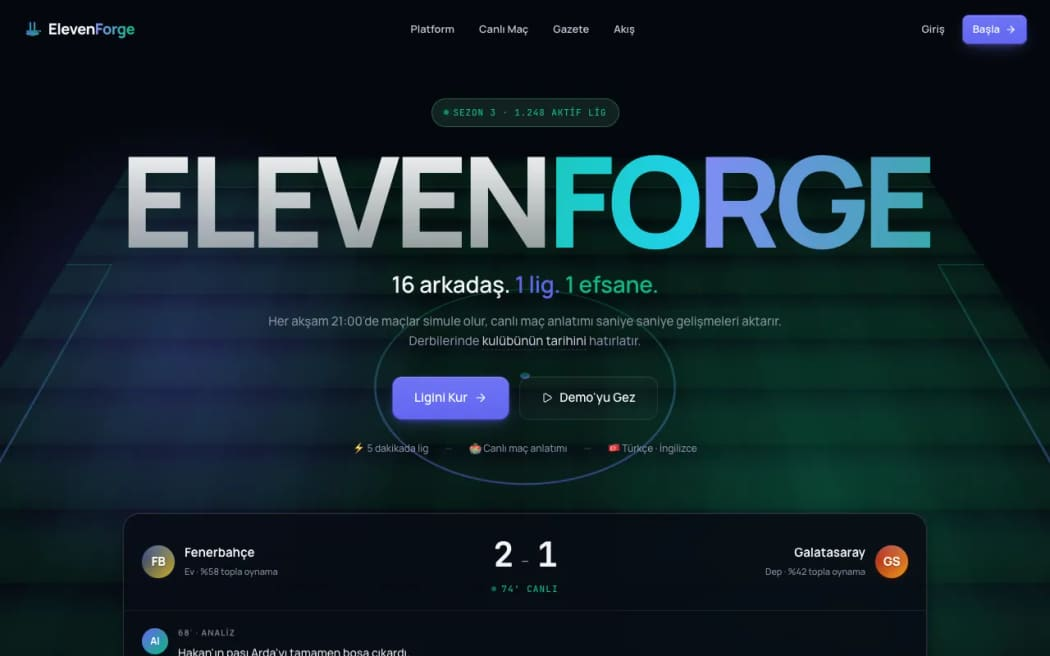
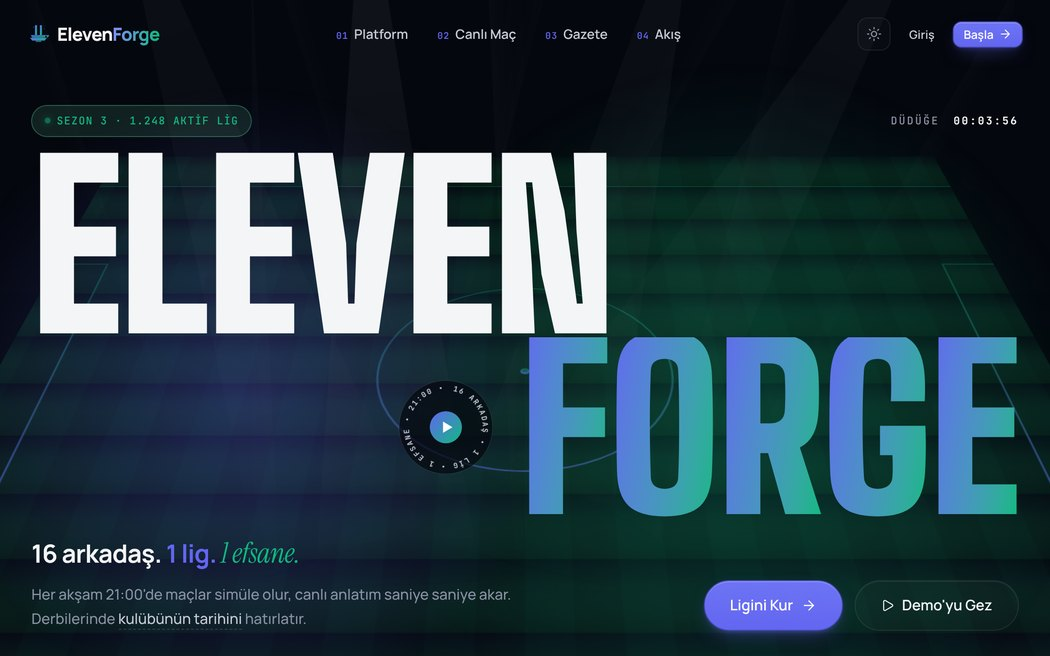
ElevenForge yeni Floodlight tasarımıyla: tam ekran görüntüsü seti, OG görseli ve indigo-zümrüt vurgu
Landing hero, uygulama ana ekranı ve telefon hero'su; iki temalı,
2160×1350 / 780×1688. Proje metnine yeni arayüzün anlatımı ve
Framer Motion etiketi eklendi.

Claude-Session: https://claude.ai/code/session_01ViCHmV2TA7TbPh5v2QZ2Vx

diff --git a/lib/content/project-shots.ts b/lib/content/project-shots.ts
@@ -6,12 +6,11 @@ import { projectShot, type ShotView } from '@/lib/project-shot'
  * da silinirse burası da değişir.
  *
  * - Tam set (desktop + desktop-2 + mobile, 2160×1350 / 780×1688): yeni
- *   çekimler (digynotes 9 Ekim 2026'da yeniden tasarımla eklendi).
+ *   çekimler. digynotes, derinay ("Atölye Sahnesi") ve elevenforge
+ *   ("Floodlight") 9 Ekim 2026'da yeniden tasarımla tam sete geçti.
  *   karalama ve dungeon-mates yalnız KOYU temalı: iki dosya da
  *   koyu, o yüzden `themed: false` (tek görsel, ikisini indirmeye gerek yok).
  * - Yalnız desktop, 1280×800: eski görselin kopyası; iki dosya aynı.
- * - elevenforge: eski desktop + yeni mobile (780×1688), tek temalı.
- *   derinay 9 Ekim 2026'da "Atölye Sahnesi" revizyonuyla tam sete geçti.
  * - dev-starter: ekran görüntüsü yok, README afişi (1280×360, iki temalı SVG).
  *   Afişteki başlık gradyanla DOLDURULMAZ: WebKit `<img>` içindeki SVG'de
  *   gradyanlı metni düşük çözünürlükte basıp büyütüyor ve iPhone'da yalnız
@@ -43,11 +42,6 @@ const FULL = { desktop: { width: 2160, height: 1350 }, 'desktop-2': { width: 216
 const LEGACY = { desktop: { width: 1280, height: 800 } } as const
 const ALL_VIEWS = ['desktop', 'desktop-2', 'mobile'] as const
 const DESKTOP_ONLY = ['desktop'] as const
-/* Eski masaüstü çekimi + yeni telefon çekimi (4 Ekim 2026): ana sayfanın
-   Öne Çıkan Projeler panelinde telefon ekranı olmayan iki proje kalıyordu.
-   Canlı siteden 390×844, 2x; ölçü tam setin telefonuyla aynı. */
-const LEGACY_WITH_MOBILE = { desktop: LEGACY.desktop, mobile: FULL.mobile } as const
-const DESKTOP_AND_MOBILE = ['desktop', 'mobile'] as const
 
 export const PROJECT_SHOTS = {
   'acilis-zili': { views: ALL_VIEWS, themed: true, size: FULL },
@@ -58,7 +52,6 @@ export const PROJECT_SHOTS = {
   karalama: { views: ALL_VIEWS, themed: false, size: FULL, darkInk: true },
   'dungeon-mates': { views: ALL_VIEWS, themed: false, size: FULL, darkInk: true },
   harfiyen: { views: DESKTOP_ONLY, themed: false, size: LEGACY, darkInk: true },
-  elevenforge: { views: DESKTOP_AND_MOBILE, themed: false, size: LEGACY_WITH_MOBILE, darkInk: true },
   /* "Atölye Sahnesi" görsel revizyonu sonrası tam set (9 Ekim 2026): landing
      kahramanı, vitrindeki panel kesiti ve telefon kahramanı; iki temalı.
      desktop-2 iki temada da koyu: vitrin landing'in "gece adası", tema
@@ -69,6 +62,9 @@ export const PROJECT_SHOTS = {
   /* Yeniden tasarım sonrası tam set (9 Ekim 2026): landing hero, notlar
      sayfası ve telefon hero'su; iki temalı. */
   digynotes: { views: ALL_VIEWS, themed: true, size: FULL },
+  /* "Floodlight" görsel revizyonu sonrası tam set (9 Ekim 2026): landing
+     hero, uygulama ana ekranı ve telefon hero'su; iki temalı. */
+  elevenforge: { views: ALL_VIEWS, themed: true, size: FULL },
 } as const satisfies Record<string, ShotSet>
 
 export type ShotSlug = keyof typeof PROJECT_SHOTS

diff --git a/lib/content/projects.ts b/lib/content/projects.ts
@@ -93,13 +93,15 @@ export const projects: Project[] = [
     description:
       '16 arkadaşın aynı ligde yarıştığı Türkçe futbol menajerlik oyunu. Davet koduyla katılıyorsun, boş kalan yerleri bot dolduruyor, kadronu ve taktiğini kuruyorsun; maçlar ligi kuran kişinin seçtiği saatte simüle ediliyor ve canlı anlatımla izleniyor.',
     detail:
-      'Maç motoru deterministik: fikstür kimliğinden üretilen tohum, aynı maçı tekrar oynattığında aynı skoru veriyor. Transfer pazarında iyimser kilitleme var: on alıcıdan yalnızca biri kazanıyor.',
-    tags: ['Next.js 16', 'React 19', 'Drizzle', 'TypeScript', 'Cron'],
+      'Maç motoru deterministik: fikstür kimliğinden üretilen tohum, aynı maçı tekrar oynattığında aynı skoru veriyor. Transfer pazarında iyimser kilitleme var: on alıcıdan yalnızca biri kazanıyor. Arayüz stadyum ışıkları altında bir gece maçı gibi: açılışta saha çizgileri kendini çiziyor, sayfa kaydırdıkça hikâye anlatıyor, ekranlar arasında View Transitions ile geçiliyor.',
+    tags: ['Next.js 16', 'React 19', 'Drizzle', 'TypeScript', 'Framer Motion', 'Cron'],
     link: 'https://elevenforge.vercel.app',
     github: 'https://github.com/ahmetakyapi/elevenforge',
-    accent: '#22c55e',
-    tint: '#16a34a',
-    gradient: 'linear-gradient(135deg, #22c55e 0%, #15803d 100%)',
+    /* "Floodlight" revizyonu (9 Ekim 2026): indigo → zümrüt marka gradyanı;
+       zemin tonu açık temadaki indigo vurgu. */
+    accent: '#818cf8',
+    tint: '#4f46e5',
+    gradient: 'linear-gradient(135deg, #6366f1 0%, #10b981 100%)',
     badge: 'Canlı',
     featured: true,
   },
